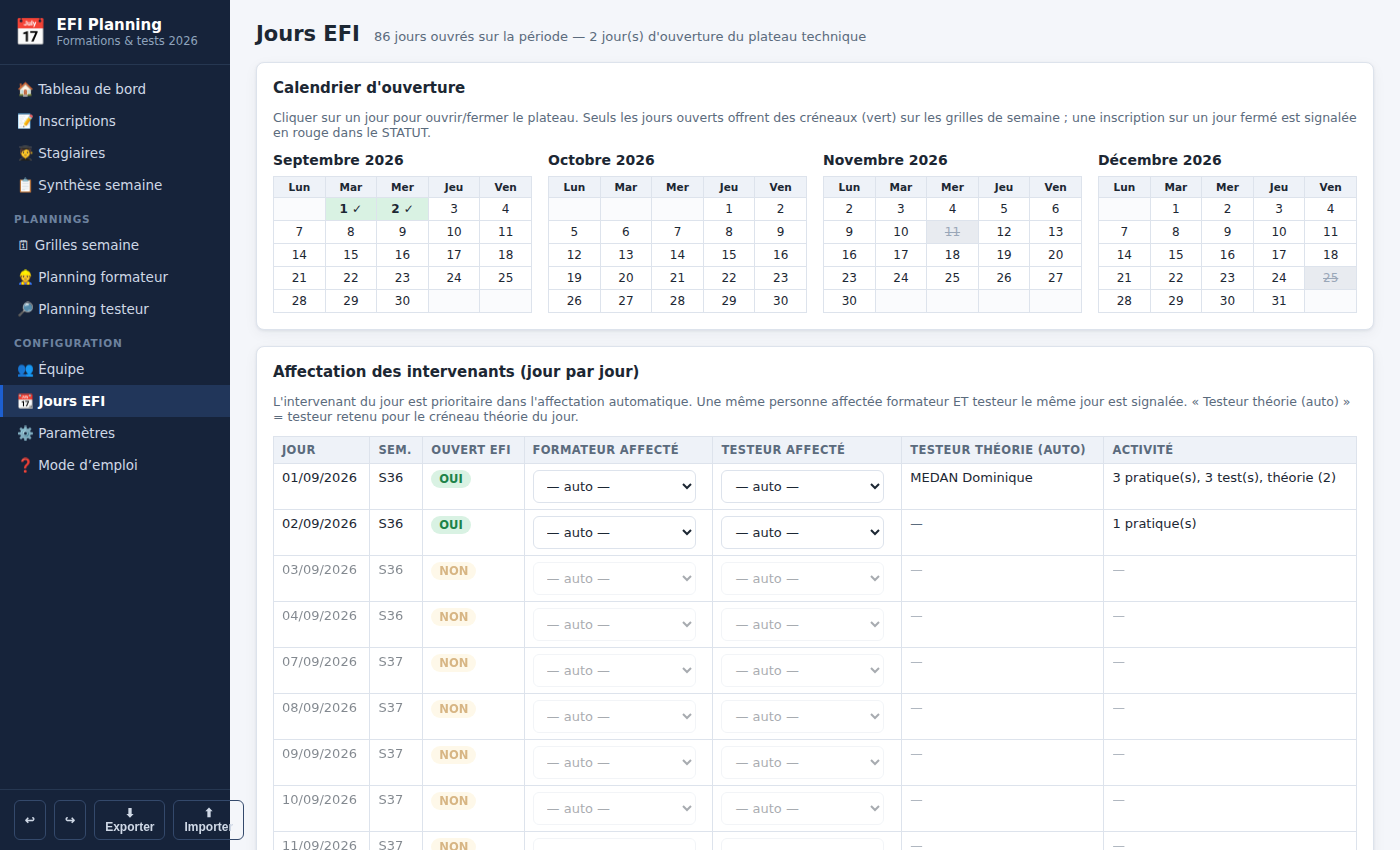
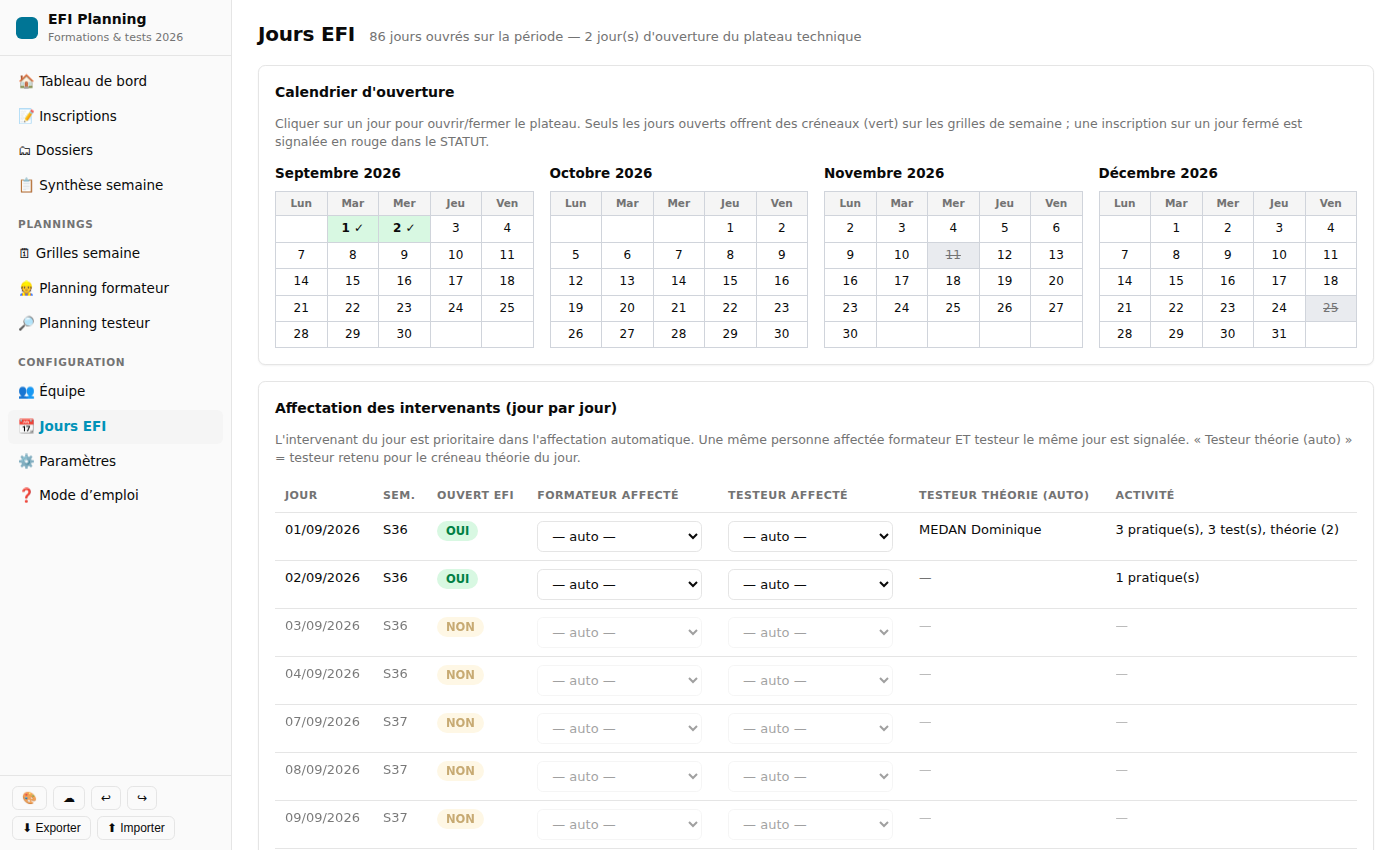
UI itérations 5-9 : mois sur heatmap, pré-réservés hachurés, tokens partout, a11y, docs
Claude-Session: https://claude.ai/code/session_01KYSKdjqMESNRGux7A4fsyq

diff --git a/js/views/semaine.js b/js/views/semaine.js
@@ -32,6 +32,7 @@ export function renderSemaine(main, args) {
     <div class="legend no-print">
       <span><span class="chip" style="background:var(--free)"></span>Disponible (cliquer pour inscrire)</span>
       <span><span class="chip" style="background:var(--busy)"></span>Occupé</span>
+      <span><span class="chip" style="background:var(--busy); outline:1px dashed var(--warn); outline-offset:-2px"></span>Pré-réservé</span>
       <span><span class="chip" style="background:var(--theory-bg);border-color:#e2c14d"></span>Théorie</span>
       <span><span class="chip" style="background:var(--closed)"></span>Fermé</span>
     </div>
@@ -129,9 +130,10 @@ function gridHTML(state, days, kind) {
       });
 
       if (occupants.length) {
-        const label = occupants.map((r) => `<span class="slot-name">${esc(r.insc.stagiaire)}</span><span class="slot-detail">${esc(kind === 'F' ? (r.formation?.label || '') : 'Test ' + (r.formation?.label?.replace('Pratique ', '') || ''))}</span><span class="slot-detail">${esc(kind === 'F' ? 'Form. : ' + (memberName(state, r.formateurEffectif) || '?') : 'Testeur : ' + (memberName(state, r.testeurEffectif) || '?'))}</span>`).join('<hr style="margin:2px 0;border:none;border-top:1px dashed #c77">');
+        const label = occupants.map((r) => `<span class="slot-name">${esc(r.insc.stagiaire)}</span><span class="slot-detail">${esc(kind === 'F' ? (r.formation?.label || '') : 'Test ' + (r.formation?.label?.replace('Pratique ', '') || ''))}</span><span class="slot-detail">${esc(kind === 'F' ? 'Form. : ' + (memberName(state, r.formateurEffectif) || '?') : 'Testeur : ' + (memberName(state, r.testeurEffectif) || '?'))}</span>`).join('<hr style="margin:2px 0;border:none;border-top:1px dashed var(--grid-line)">');
         const inscAttr = occupants.length === 1 ? ` data-insc="${occupants[0].insc.id}"` : '';
-        return `<td class="slot-busy"${inscAttr}>${label}</td>`;
+        const pre = occupants.every((r) => r.insc.statut === 'pre') ? ' slot-pre' : '';
+        return `<td class="slot-busy${pre}"${inscAttr}>${label}</td>`;
       }
 
       return `<td class="slot-free" data-date="${date}" data-time="${t}" data-kind="${kind}" tabindex="0" role="button" aria-label="Créneau libre ${fmtDateDay(date)} ${fmtTime(t)}"></td>`;
@@ -143,7 +145,7 @@ function gridHTML(state, days, kind) {
       const load = rows.reduce((sum, r) => sum + (!r.cancelled && r.insc.datePratique === date && r.insc.debutPratique != null ? r.duree : 0), 0);
       if (load > 0) {
         const over = load > state.params.maxDailyLoad;
-        loadInfo = `<br><span style="font-weight:400;font-size:10px;color:${over ? 'var(--error)' : 'var(--text-dim)'}">${fmtTime(load).replace(':', 'h')}${over ? ' ⚠' : ''} / ${fmtTime(state.params.maxDailyLoad).replace(':', 'h')}</span>`;
+        loadInfo = `<br><span style="font-weight:400;font-size:10px;color:${over ? 'var(--error)' : 'var(--muted-foreground)'}">${fmtTime(load).replace(':', 'h')}${over ? ' ⚠' : ''} / ${fmtTime(state.params.maxDailyLoad).replace(':', 'h')}</span>`;
       }
     }
     return `<tr><td class="day-col">${fmtDateDay(date)}${loadInfo}</td><td class="who-col">${who}</td>${cells}</tr>`;

diff --git a/css/style.css b/css/style.css
@@ -68,6 +68,9 @@ body {
   padding: 10px 12px; border-top: 1px solid var(--sidebar-border);
   display: flex; gap: 6px; flex-wrap: wrap;
 }
+#cloud-status[data-status="idle"] { color: var(--ok); border-color: var(--ok); }
+#cloud-status[data-status="error"] { color: var(--error); border-color: var(--error); }
+#cloud-status[data-status="saving"] { color: var(--warn); border-color: var(--warn); }
 
 /* ---------- Main ---------- */
 #main { flex: 1; padding: 20px 26px 60px; min-width: 0; }
@@ -189,6 +192,7 @@ td.slot-free:hover, td.slot-free:focus-visible {
   outline: 2px solid var(--ok); outline-offset: -2px;
 }
 td.slot-busy { background: var(--busy); white-space: normal; }
+td.slot-busy.slot-pre { background: repeating-linear-gradient(45deg, var(--busy), var(--busy) 5px, color-mix(in srgb, var(--busy) 55%, var(--card)) 5px, color-mix(in srgb, var(--busy) 55%, var(--card)) 10px); outline: 1px dashed var(--warn); outline-offset: -2px; }
 td.slot-theory { background: var(--theory-bg); border-color: var(--theory-border); white-space: normal; }
 td.slot-closed { background: var(--closed); color: var(--muted-foreground); }
 td.slot-off { background: var(--muted); }
@@ -266,6 +270,8 @@ table.cal td.cal-empty { background: var(--background); }
 .hm-days { display: flex; flex-direction: column; gap: 3px; font-size: 10.5px; color: var(--muted-foreground); }
 .hm-days span { height: 18px; line-height: 18px; }
 .hm-grid { display: flex; gap: 3px; }
+.hm-months { display: flex; gap: 3px; height: 16px; }
+.hm-month { width: 18px; font-size: 10px; color: var(--muted-foreground); overflow: visible; white-space: nowrap; }
 .hm-col { display: flex; flex-direction: column; gap: 3px; }
 .hm-cell { width: 18px; height: 18px; border-radius: 4px; display: block; }
 .hm-cell[data-week] { cursor: pointer; }
@@ -325,6 +331,10 @@ table.cal td.cal-empty { background: var(--background); }
   a { color: inherit; text-decoration: none; }
 }
 @page { size: A4 landscape; margin: 10mm; }
+
+@media (prefers-reduced-motion: reduce) {
+  *, *::before, *::after { animation: none !important; transition: none !important; }
+}
 
 /* ---------- Responsive ---------- */
 @media (max-width: 860px) {

diff --git a/js/views/dashboard.js b/js/views/dashboard.js
@@ -112,6 +112,7 @@ export function renderDashboard(main) {
 // taux d'occupation des créneaux offerts (formateur + testeur).
 // ---------------------------------------------------------------------------
 const DAY_LABELS = ['Lun', 'Mar', 'Mer', 'Jeu', 'Ven'];
+const MONTHS_SHORT = ['janv.', 'févr.', 'mars', 'avr.', 'mai', 'juin', 'juil.', 'août', 'sept.', 'oct.', 'nov.', 'déc.'];
 
 function heatmapHTML(state, weeks) {
   const occ = occupancyByDay(state, app.schedule);
@@ -135,10 +136,21 @@ function heatmapHTML(state, weeks) {
     return `<div class="hm-col">${cells}<span class="hm-week" data-week="${week}">${week}</span></div>`;
   }).join('');
 
+  // Ligne des mois : un label au début de chaque mois (au moins 2 semaines visibles)
+  let lastMonth = null;
+  const monthCells = weeks.map(({ monday }) => {
+    const m = Number(monday.slice(5, 7));
+    if (m !== lastMonth) { lastMonth = m; return `<span class="hm-month">${MONTHS_SHORT[m - 1]}</span>`; }
+    return '<span class="hm-month"></span>';
+  }).join('');
+
   return `
     <div class="hm-wrap">
-      <div class="hm-days">${DAY_LABELS.map((d) => `<span>${d}</span>`).join('')}<span></span></div>
-      <div class="hm-grid">${cols}</div>
+      <div class="hm-days"><span></span>${DAY_LABELS.map((d) => `<span>${d}</span>`).join('')}<span></span></div>
+      <div>
+        <div class="hm-months">${monthCells}</div>
+        <div class="hm-grid">${cols}</div>
+      </div>
     </div>
     <div class="legend" style="margin-top:10px">
       <span>Occupation :</span>

diff --git a/js/views/aide.js b/js/views/aide.js
@@ -86,6 +86,8 @@ export function renderAide(main) {
         <li><b>🗂 Dossiers</b> : chaque inscription porte une entreprise/SIRET et un statut —
           🕐 pré-réservée, ✓ confirmée, ✕ annulée (avec motif). Une ligne annulée libère immédiatement
           ses créneaux et sort des contrôles, tout en restant visible dans les listes.</li>
+        <li><b>🎨 Thèmes</b> : bouton palette de la barre latérale — 10 presets de couleur (dont « Néon »
+          pour le mode sombre) et modes clair / sombre / système, mémorisés sur le poste.</li>
         <li><b>☁ Base partagée</b> : cliquer sur le nuage de la barre latérale et saisir le code d'accès pour
           charger le planning commun et synchroniser automatiquement chaque modification entre les postes
           (☁✓ synchronisé, ☁⚠ erreur — les données restent aussi en local).</li>

diff --git a/js/views/planning.js b/js/views/planning.js
@@ -22,7 +22,7 @@ export function renderPlanning(main, args, kind) {
     const week = isoWeek(date);
     let weekSep = '';
     if (week !== lastWeek) {
-      weekSep = `<tr><td class="day-col" colspan="${slots.length + 1}" style="background:#dde5f0;font-weight:700">Semaine ${week} <a href="#/semaine/${week}" class="no-print" style="font-weight:400;font-size:11px">→ grille</a></td></tr>`;
+      weekSep = `<tr><td class="day-col" colspan="${slots.length + 1}" style="background:var(--muted);font-weight:700">Semaine ${week} <a href="#/semaine/${week}" class="no-print" style="font-weight:400;font-size:11px">→ grille</a></td></tr>`;
       lastWeek = week;
     }
 

diff --git a/js/app.js b/js/app.js
@@ -190,7 +190,7 @@ function renderNav() {
   const currentWeek = page === 'semaine' ? Number(args[0]) : null;
 
   const link = (path, label, active) =>
-    `<a href="#/${path}" class="${active ? 'active' : ''}">${label}</a>`;
+    `<a href="#/${path}" class="${active ? 'active' : ''}" ${active ? 'aria-current="page"' : ''}>${label}</a>`;
 
   document.getElementById('nav').innerHTML = `
     ${link('dashboard', '🏠 Tableau de bord', page === 'dashboard')}

diff --git a/EVALUATION-UI.md b/EVALUATION-UI.md
@@ -27,6 +27,11 @@ Score sur 100, mis à jour à chaque itération.
 | 2 | 55/100 | Sélecteur de thème 🎨 (pastilles OKLCH + check, 10 presets dont Néon, modes clair/sombre/système), persistance localStorage, application anti-flash avant premier rendu, suivi de prefers-color-scheme, preset Néon (fond profond + halo cyan) opérationnel |
 | 3 | 60/100 | Rampe heatmap corrigée (color-mix en srgb — plus de dérive violette), dérivée du --primary du preset actif comme le prévoyait la référence, vérifiée en clair et en sombre |
 | 4 | 63/100 | Contrôle visuel de 6 combinaisons preset×mode + formulaire sombre + menu thème : rendus conformes ; correction :user-invalid (plus de bordure rouge avant saisie) |
+| 5 | 66/100 | Heatmap : ligne des mois (sept. → déc.) au-dessus des colonnes de semaines, façon GitHub |
+| 6 | 69/100 | Créneaux pré-réservés distingués sur les grilles (hachures + liseré pointillé) + entrée de légende |
+| 7 | 72/100 | Régressions de la réécriture corrigées : indicateur ☁ retokenisé, séparateurs du planning global et pointillés des grilles en tokens (plus aucune couleur en dur dans les vues) |
+| 8 | 74/100 | Accessibilité : aria-current sur la navigation, prefers-reduced-motion respecté |
+| 9 | 77/100 | Documentation thèmes (aide + README), captures d'écran régénérées (dont sombre et néon), régression complète verte (47 tests, e2e 10/10, sync 8/8, mobile, PDF) |
 
 ## Référence (extraite de efi-placement)
 

diff --git a/README.md b/README.md
@@ -47,6 +47,13 @@ intervenants sont reconnus automatiquement.
 - Affectation automatique d'un intervenant habilité et libre (priorité à
   l'intervenant du jour), testing croisé possible.
 
+## Thèmes
+
+10 presets de couleur (teal par défaut, néon pour le mode sombre) et
+modes clair / sombre / système via le bouton 🎨 de la barre latérale.
+Le système de tokens (OKLCH, `css/tokens.css`) est repris du projet
+efi-placement pour une identité visuelle commune.
+
 ## Guide de démarrage
 
 1. **Équipe** : saisir les intervenants et cocher leurs habilitations
